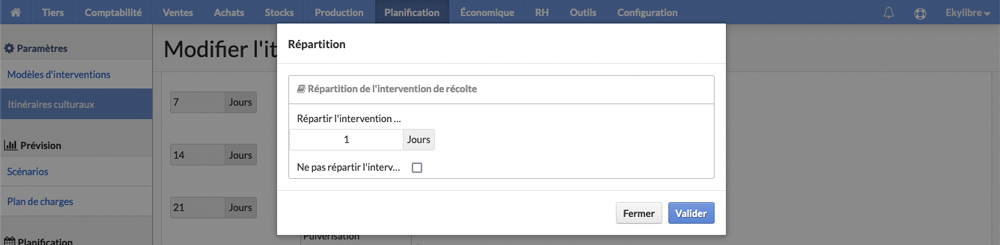
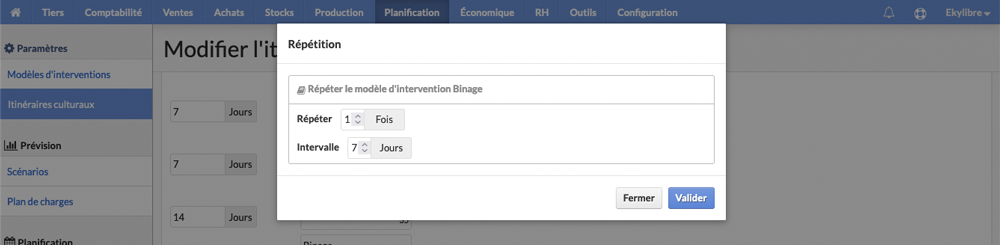
Itinéraires culturaux

diff --git a/content/fr/performance.html b/content/fr/performance.html
@@ -366,7 +366,7 @@
       <a class="slice-process" id="config"></a>
 	  <h2 class="texte aerateur">a - Instructions de configuration</h2>
 	  <p class="texte">Dans l'objectif de réaliser avec justesse le paramétrage initial des fonctionnalités proposées dans les offres <strong>Eky</strong>agri et <strong>Eky</strong>viti Performance, il convient de respecter  l'ordre des procédures abordées dans ce chapitre&nbsp;:</p>
-	  <p class="texte"><strong>1</strong> - Créez et configurez vos activités&nbsp;: administratives, de maintenance, de production &#40;végétales, animales, viticoles&#41;, de transformation, de prestation de service et de vinification&nbsp;;</p>
+	  <p class="texte"><strong>1</strong> - Créez et configurez vos activités administratives, de maintenance, de production &#40;végétales, animales, viticoles&#41;, de transformation, de prestation de service, de vinification ainsi que les options analytiques de certaines charges indirectes&nbsp;;</p>
 	  <p class="texte"><strong>2</strong> - Définissez et ajustez le budget prévisionnel de chaque activité ouverte durant la campagne en cours, en fonction des dépenses, des recettes et des pratiques culturales propres à votre exploitation&nbsp;;</p>
 	  <p class="texte"><strong>3</strong> - Visualisez les indicateurs financiers et affectez des écritures comptables aux activités de votre choix. Simulez une estimation dynamique des seuils de commercialisation en fonction de vos charges et des prix du marché.</p>
 	  <div class="affichage-large"></div>
@@ -402,8 +402,9 @@
          </div>
       </div>
 	  <p align="center" class="texte legende">Logique globale d'affectation des activités auxiliaires et des charges indirectes</p>
-	  <p class="texte"><strong>Notez que la prise en compte des charges indirectes générées par les immobilisations et les emprunts &#40;calculées au prorata de la marge brute&#41; n'est pas encore disponible dans la version actuelle de l'application.</strong></p>
+	  <p class="texte">Notez que la prise en compte des charges indirectes générées par les <strong>immobilisations</strong> et les <strong>emprunts</strong> &#40;calculées au prorata de la marge brute&#41; n'est pas encore disponible dans la version actuelle de l'application.</p>
 	  <p class="texte">Les "Activités auxiliaires" peuvent être configurées pour répartir les différents charges de l'exploitation, les frais de maintenance des équipements et les actions commerciales &#40;ventes&#41;.</p>
+	  <p class="texte">Le paramétrage de la clé de répartition analytique d'un contrat de travail &#40;charges liées aux salaires&#41; est documenté dans la section <a class="avoid-clicks" href="../chapitre8/#contrats" target="_self">&#171;&nbsp;Procédure de création d'un contrat de travail&nbsp;&#187;</a> du chapitre RH.</p>
 	  <div class="affichage-mobile">
          <p align="center">
             <img src="../images/commun/scroll.svg" alt="Scroll" height="40" class="">
@@ -1346,14 +1347,19 @@
 		 <p class="max-img-process">
             <img src="../images/performance/itineraire9.png" class="contour-img" alt="Sélection modèle d'intervention" data-action="zoom" />
          </p>
-		 <p class="aerateur-haut"><strong>Interventions de récolte</strong></p>
-		 <p>Cliquez sur l'icône symbolisant un "Crayon"<img src="../images/commun/crayon.svg" alt="crayon" height="20" class="align-icone icone-marge-gauche icone-marge-droite">pour répartir une intervention de récolte sur plusieurs jours. Cochez la case<img src="../images/commun/check-square.svg" alt="crayon" height="20" class="align-icone icone-marge-gauche icone-marge-droite">pour annuler une répartition erronée mais déjà affectée à une activité.</p>
+		 <p>Cliquez sur l'icône<img src="../images/commun/repeat.svg" alt="Répétition" height="20" class="align-icone icone-marge-gauche icone-marge-droite">à droite du nom d'une intervention pour paramétrer une ou plusieurs répétitions avec un intervalle défini en jours. Cliquez sur la croix<img src="../images/commun/delete.svg" alt="Suppression" height="20" class="align-icone icone-marge-gauche icone-marge-droite">pour supprimer une intervention de la liste.</p>
 		 <p class="max-img-process">
-            <img src="../images/performance/itineraire10.png" class="contour-img" alt="Répartition récolte" data-action="zoom" />
+            <img src="../images/performance/itineraire10.png" class="contour-img" alt="Répétition intervention" data-action="zoom" />
+         </p>
+		 <p>Cliquez sur <span class="btn-blue">Valider</span> dans la <span class="tooltip">fenêtre modale<span class="tooltiptext tooltip-top">Voir glossaire</span></span> pour confirmer la répétition.</p>
+		 <p class="aerateur-haut"><strong>Interventions de récolte</strong></p>
+		 <p>Cliquez sur l'icône symbolisant un "Crayon"<img src="../images/commun/crayon.svg" alt="Crayon" height="20" class="align-icone icone-marge-gauche icone-marge-droite">pour répartir une intervention de récolte sur plusieurs jours. Cochez la case<img src="../images/commun/check-square.svg" alt="crayon" height="20" class="align-icone icone-marge-gauche icone-marge-droite">pour annuler une répartition erronée mais déjà affectée à une activité.</p>
+		 <p class="max-img-process">
+            <img src="../images/performance/itineraire11.png" class="contour-img" alt="Répartition récolte" data-action="zoom" />
          </p>
 		 <p>Cliquez sur <span class="btn-blue">Valider</span> dans la <span class="tooltip">fenêtre modale<span class="tooltiptext tooltip-top">Voir glossaire</span></span> pour confirmer la modification.</p>
 		 <p class="max-img-process aerateur-haut">
-            <img src="../images/performance/itineraire11.png" class="contour-img" alt="Sélection modèle d'intervention" data-action="zoom" />
+            <img src="../images/performance/itineraire12.png" class="contour-img" alt="Sélection modèle d'intervention" data-action="zoom" />
          </p>
 		 <p>Notez que les délais indiqués en jours par rapport au semis &#40;ou une autre intervention d'implantation de culture&#41; sont automatiquement calculés après l'enregistrement de l'itinéraire.</p>
 		 <p>Cliquez sur <span class="btn-blue">Envoyer</span> pour valider l'opération et affecter l'itinéraire cultural à l'activité ciblée.</p>
